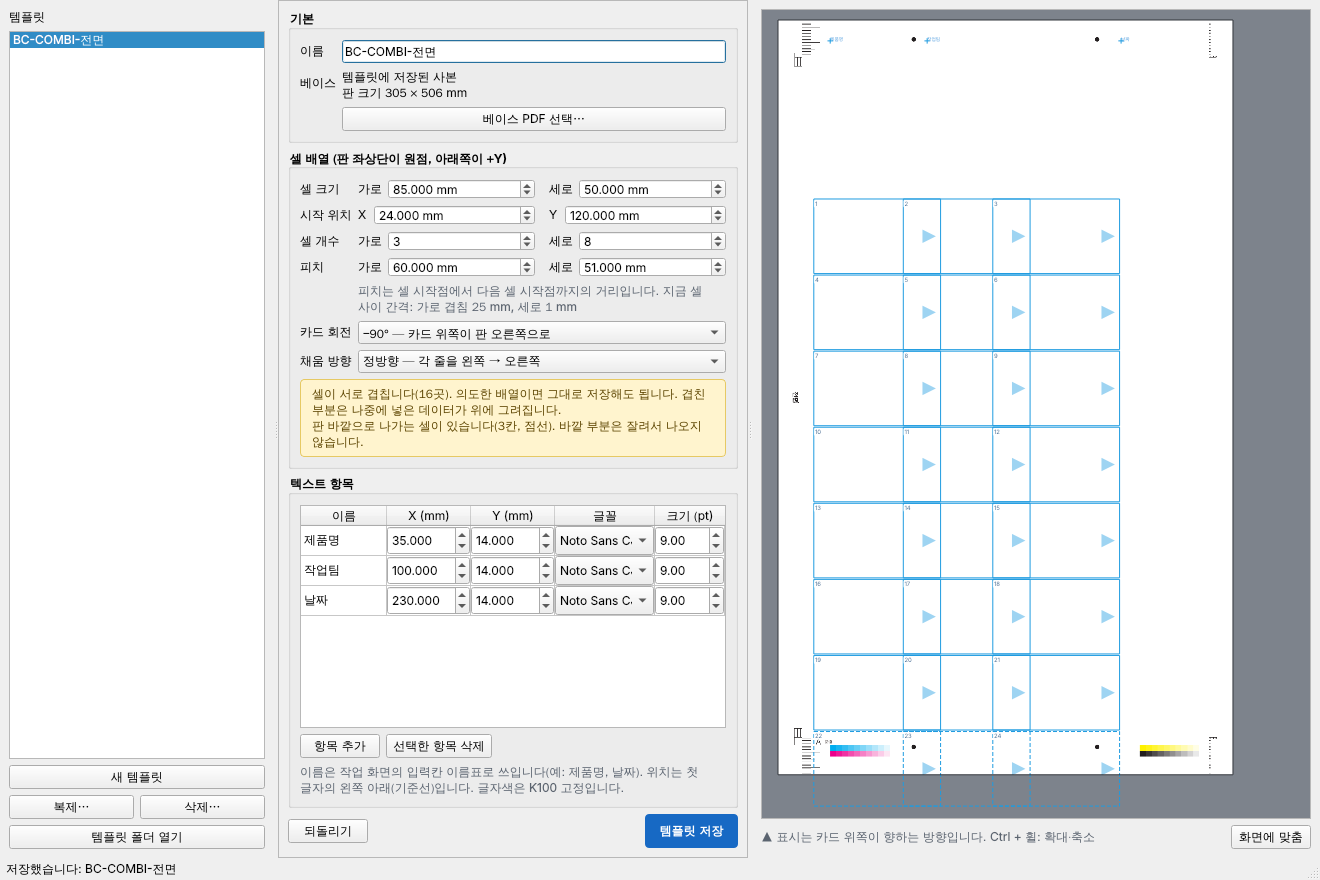
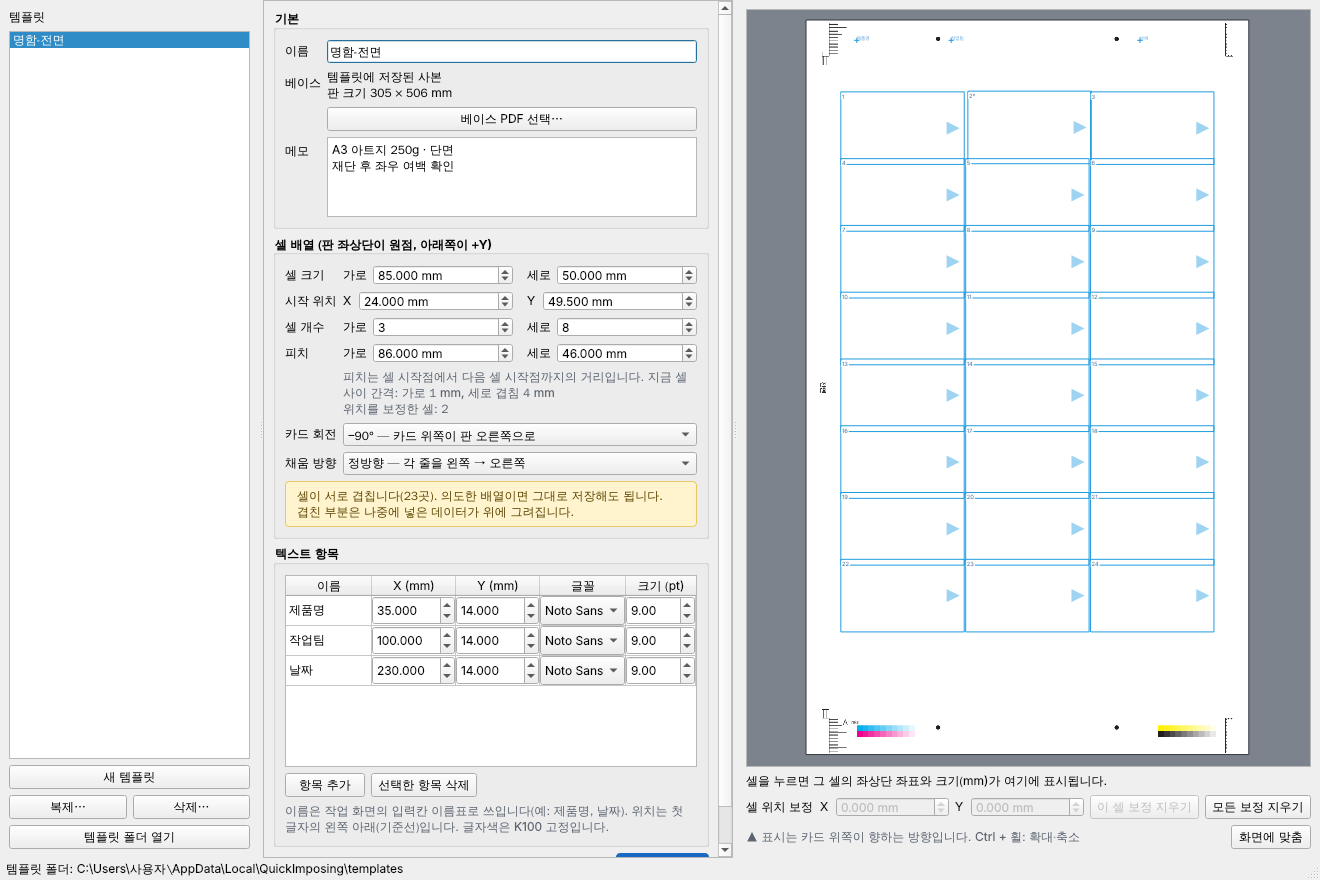
README for 0.9.0: cell offsets, current screenshots, more notes
New screenshots of both programs (edit menu, memo, cell position
correction, neutral sample names and the default template folder).
Mentions cell correction in the overview and program table, makes the
version-mix warning about 0.9.0 offsets, adds the repeated-paste stop
message and the Illustrator 'reinterpreted PDF objects' note.

Claude-Session: https://claude.ai/code/session_01Q2SD6VMYJTwZe3a6QEHBmW

diff --git a/README.md b/README.md
@@ -5,7 +5,7 @@
 ![작업 프로그램](docs/images/work.png)
 
 - **원본을 건드리지 않습니다.** 카드와 베이스의 내용(색, 레이어, 글꼴)을 그대로 옮겨 놓고, 크기는 바꾸지 않습니다. 회전과 위치 이동만 합니다.
-- **판 구조는 템플릿으로 한 번만 만듭니다.** 셀 크기, 칸 수, 간격, 카드 회전, 판에 넣을 글자 자리를 템플릿에 저장해 두고 작업할 때 고르기만 합니다.
+- **판 구조는 템플릿으로 한 번만 만듭니다.** 셀 크기, 칸 수, 간격, 카드 회전, 판에 넣을 글자 자리를 템플릿에 저장해 두고 작업할 때 고르기만 합니다. 위치가 어긋난 셀은 하나씩 보정할 수 있고, 작업자에게 보여 줄 메모도 남길 수 있습니다.
 - **넣는 방법이 여러 가지입니다.** 셀마다 하나씩 넣기, 여러 파일을 이름 순서로 한 번에 채우기, 탐색기에서 끌어다 놓기, 셀 복사·붙여넣기와 연속 붙여넣기를 쓸 수 있습니다.
 - **다시 열어 고칠 수 있습니다.** 저장할 때 프로젝트 파일이 함께 남아, 나중에 열어 빠진 카드를 넣거나 바꾼 뒤 다시 저장할 수 있습니다.
 
@@ -13,7 +13,7 @@
 
 | 프로그램 | 하는 일 | 쓰는 때 |
 |---|---|---|
-| `QuickImposingEditor.exe` (템플릿 편집기) | 판 구조(베이스, 셀 배열, 텍스트 자리, 메모)를 템플릿으로 만든다 | 새 사양이 생겼을 때 한 번 |
+| `QuickImposingEditor.exe` (템플릿 편집기) | 판 구조(베이스, 셀 배열과 셀 위치 보정, 텍스트 자리, 메모)를 템플릿으로 만든다 | 새 사양이 생겼을 때 한 번 |
 | `QuickImposing.exe` (작업 프로그램) | 템플릿을 골라 셀에 카드를 넣고 PDF를 저장한다 | 매 작업 |
 
 ## 목차
@@ -53,7 +53,7 @@
 
 만들어 둔 템플릿, 저장한 프로젝트와 PDF는 프로그램 폴더 밖에 있어 그대로 남습니다. 지금 쓰는 버전은 작업 프로그램의 `도구 → 프로그램 정보`에서 봅니다.
 
-> 여러 PC에서 함께 쓰면 모든 PC를 같은 버전으로 맞춰 주세요. 예를 들어 0.6.0보다 오래된 편집기로 메모가 있는 템플릿을 저장하면 메모가 지워집니다.
+> 여러 PC에서 함께 쓰면 모든 PC를 같은 버전으로 맞춰 주세요. 특히 **셀 위치 보정을 쓴 템플릿은 0.9.0 이상**에서만 맞게 나옵니다. 그보다 오래된 버전은 보정을 무시하고 셀을 원래 위치에 놓습니다(메모도 0.6.0보다 오래된 편집기로 저장하면 지워집니다).
 
 ### 작업 흐름 한눈에 보기
 
@@ -184,6 +184,7 @@
 |---|---|
 | 자동 배열이 막혔습니다 | 넣을 자리가 모자랍니다. 표시된 파일은 들어가지 않았습니다. 남은 파일은 새 작업으로 넣습니다 |
 | 이 템플릿은 셀이 서로 겹칩니다 | 템플릿이 겹치는 배열입니다. 겹친 곳은 나중에 넣은 카드가 위에 나옵니다 |
+| 경고 — 연속 붙여넣기가 멈췄습니다 (기록 창) | 데이터가 있는 셀을 만났거나 마지막 셀까지 찼습니다. 기록에 적힌 칸까지만 들어갔습니다 |
 | 같은 이름의 파일이 있습니다 | 덮어쓸지, 다음 이름으로 저장할지 고릅니다([저장과 덮어쓰기](#저장과-덮어쓰기)) |
 | 다른 프로그램에서 열려 있으면 닫고 다시 저장하세요 | 덮어쓸 파일을 다른 프로그램이 쓰고 있습니다. 닫고 다시 저장합니다. 기존 파일은 바뀌지 않았습니다 |
 | 데이터와 저장 위치는 같은 드라이브에 있어야 합니다 | 카드 파일이 있는 드라이브에 저장합니다 |
@@ -209,7 +210,7 @@ PC 사용자마다 `%LOCALAPPDATA%\QuickImposing\templates`에 저장됩니다. 
 아니요. 재단선이나 마크는 베이스 PDF에 미리 넣어 두세요.
 
 **결과 PDF를 Illustrator에서 열 수 있나요?**
-네. 일반 PDF로 열립니다.
+네. 일반 PDF로 열립니다(Illustrator 전용 편집 정보는 넣지 않습니다). 열 때 "문서에는 재해석된 PDF 오브젝트가 포함되어 있습니다 / 알 수 없는 음영 유형이 발생하였습니다"가 나올 수 있는데, 원본 카드나 베이스 디자인의 그라디언트 때문입니다. 원본 PDF를 Illustrator로 열어도 같은 메시지가 나오며, 인쇄용 PDF 내용에는 영향이 없습니다.
 
 **판에 넣는 글자의 색은 바꿀 수 있나요?**
 지금은 K100(검정) 하나입니다.
